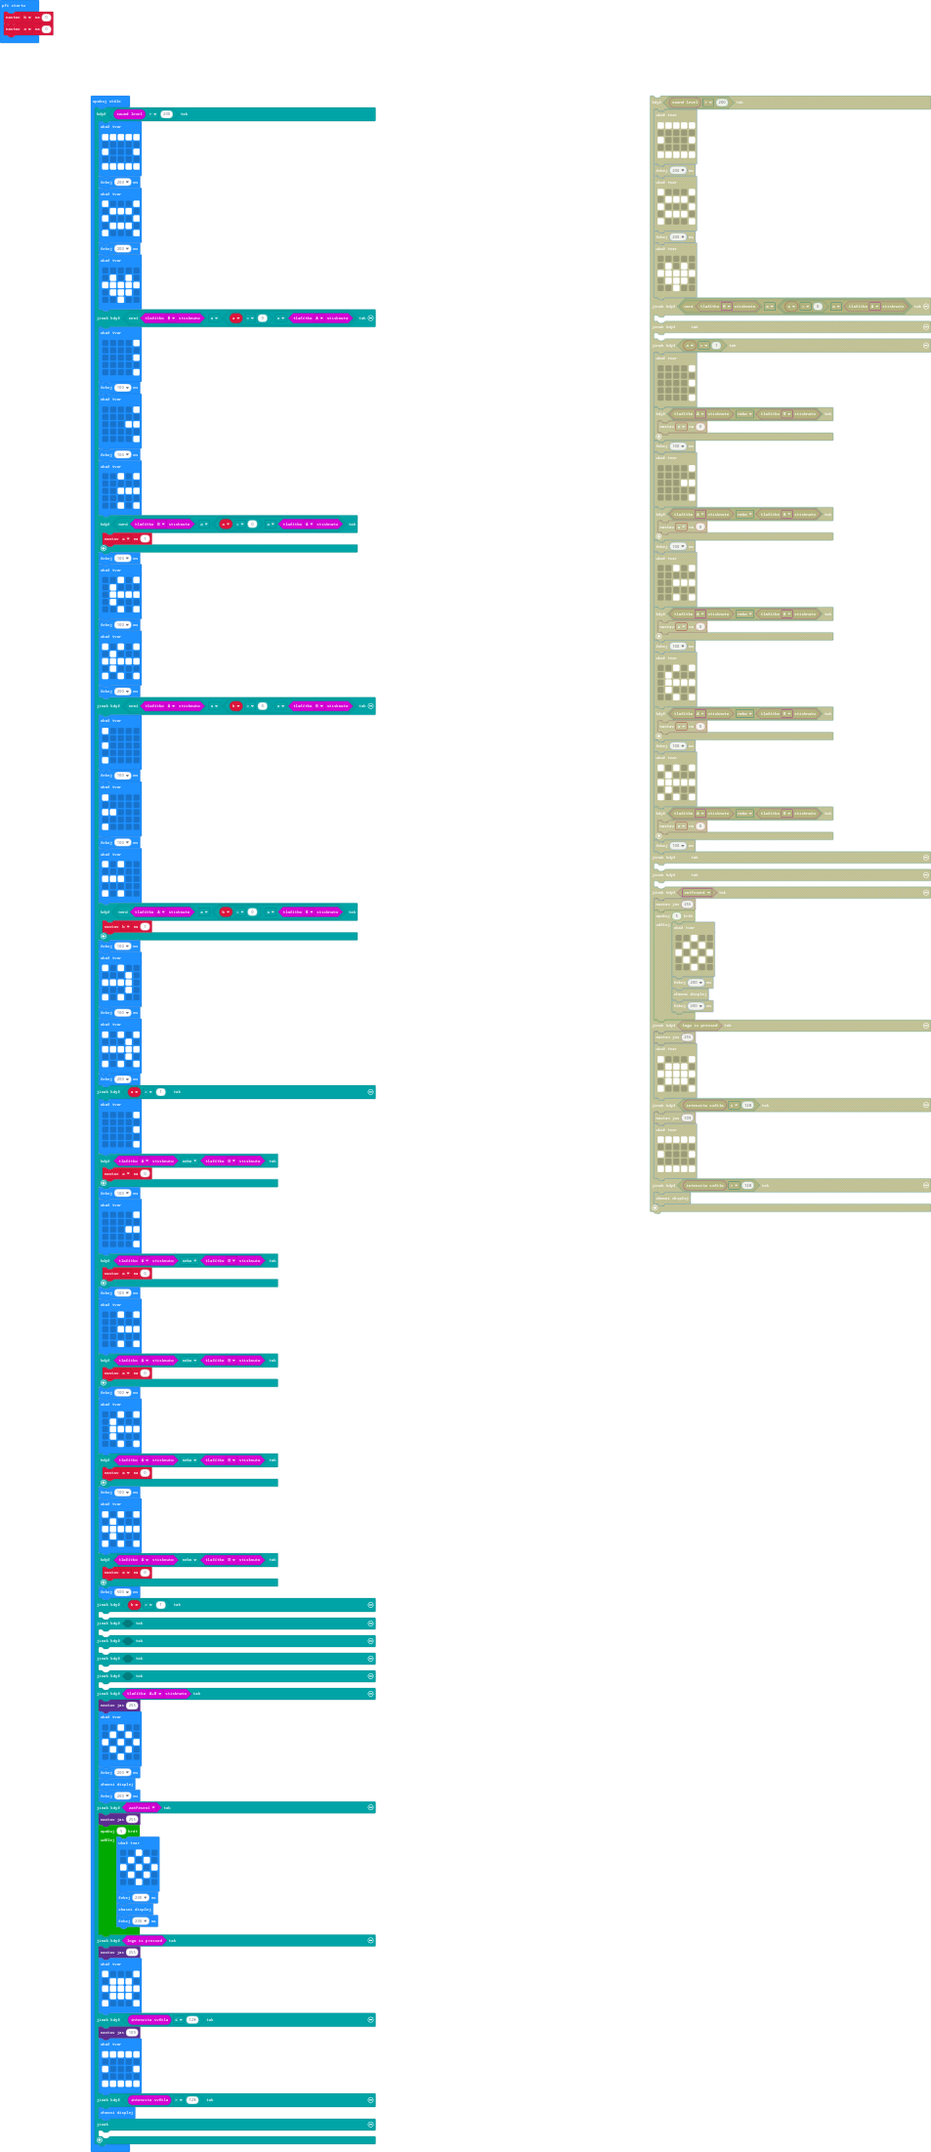
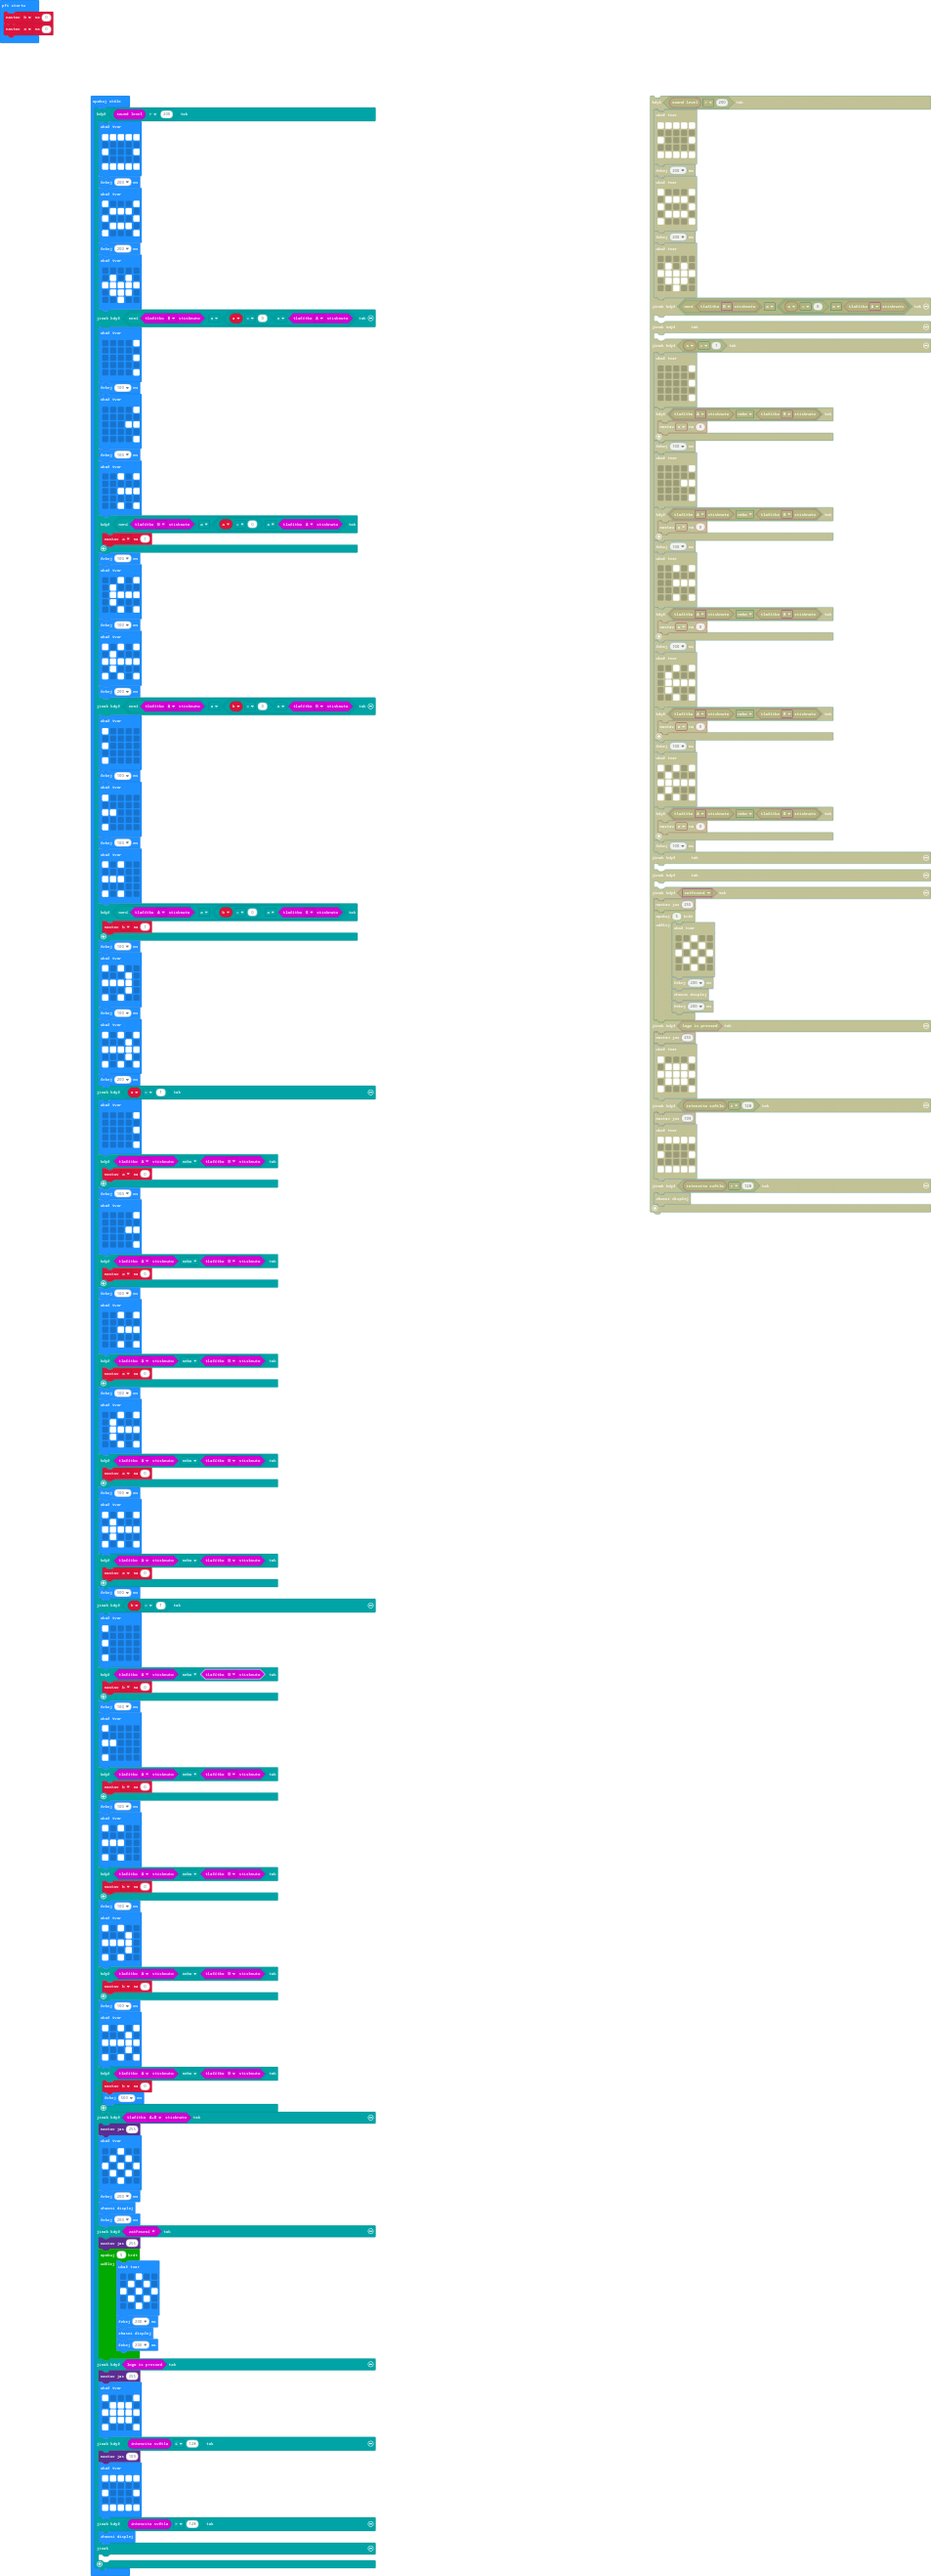
Aktualizovat main.blocks, main.ts

Changed region(s): [[0.0913, 0.0309, 0.426, 1.0], [0.6999, 0.0309, 1.0, 0.5865], [0.0, 0.0, 0.0609, 0.0309]]

diff --git a/main.ts b/main.ts
@@ -170,15 +170,61 @@ basic.forever(function () {
         }
         basic.pause(500)
     } else if (b == 1) {
-    	
-    } else if (false) {
-    	
-    } else if (false) {
-    	
-    } else if (false) {
-    	
-    } else if (false) {
-    	
+        basic.showLeds(`
+            # . . . .
+            . . . . .
+            # . . . .
+            . . . . .
+            # . . . .
+            `)
+        if (input.buttonIsPressed(Button.A) || input.buttonIsPressed(Button.B)) {
+            b = 0
+        }
+        basic.pause(100)
+        basic.showLeds(`
+            # . . . .
+            . . . . .
+            # # . . .
+            . . . . .
+            # . . . .
+            `)
+        if (input.buttonIsPressed(Button.A) || input.buttonIsPressed(Button.B)) {
+            b = 0
+        }
+        basic.pause(100)
+        basic.showLeds(`
+            # . # . .
+            . . . . .
+            # # # . .
+            . . . . .
+            # . # . .
+            `)
+        if (input.buttonIsPressed(Button.A) || input.buttonIsPressed(Button.B)) {
+            b = 0
+        }
+        basic.pause(100)
+        basic.showLeds(`
+            # . # . .
+            . . . # .
+            # # # # .
+            . . . # .
+            # . # . .
+            `)
+        if (input.buttonIsPressed(Button.A) || input.buttonIsPressed(Button.B)) {
+            b = 0
+        }
+        basic.pause(100)
+        basic.showLeds(`
+            # . # . #
+            . . . # .
+            # # # # #
+            . . . # .
+            # . # . #
+            `)
+        if (input.buttonIsPressed(Button.A) || input.buttonIsPressed(Button.B)) {
+            b = 0
+            basic.pause(500)
+        }
     } else if (input.buttonIsPressed(Button.AB)) {
         led.setBrightness(255)
         basic.showLeds(`
